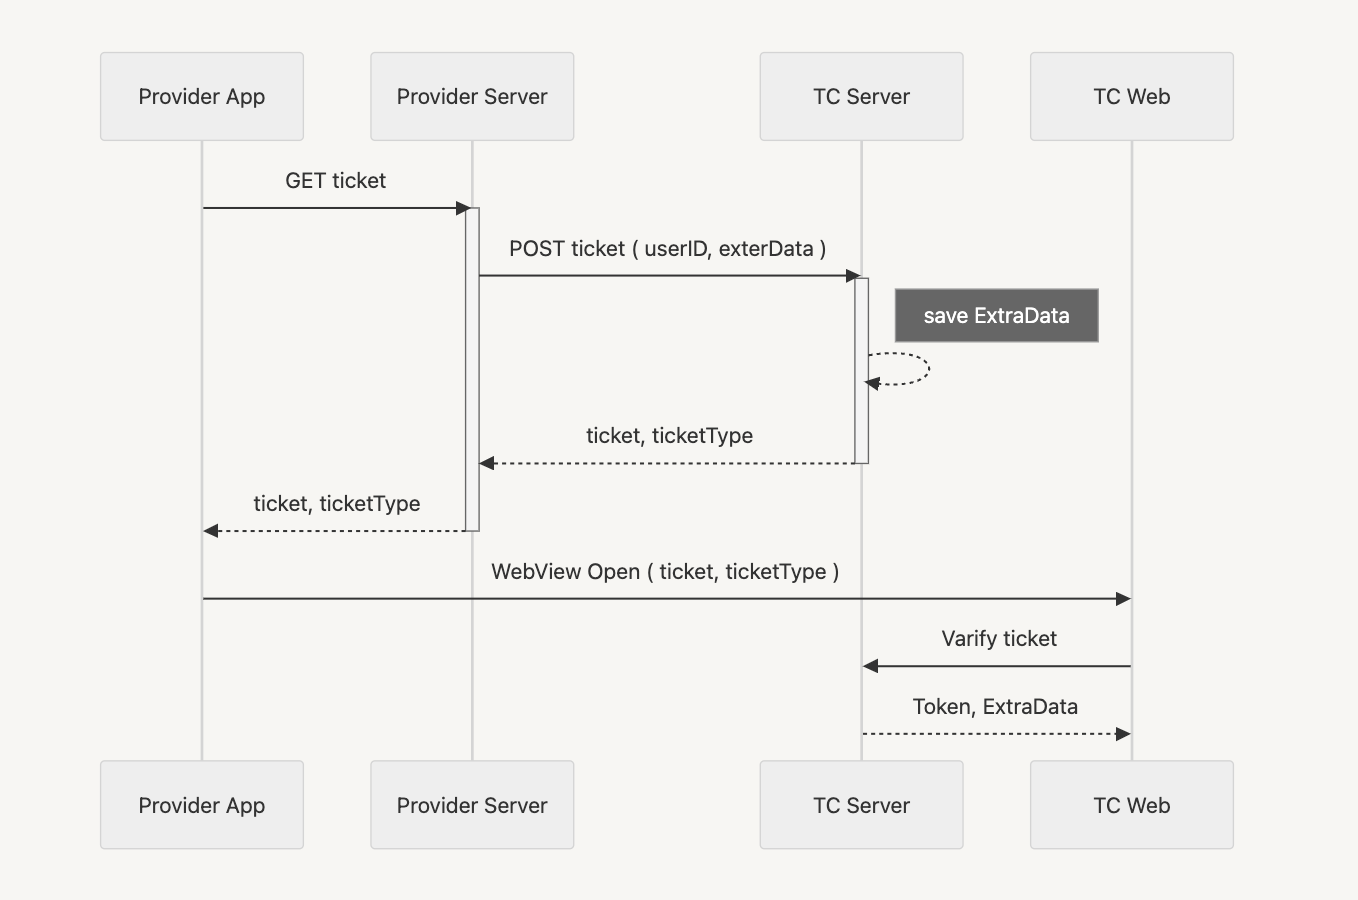
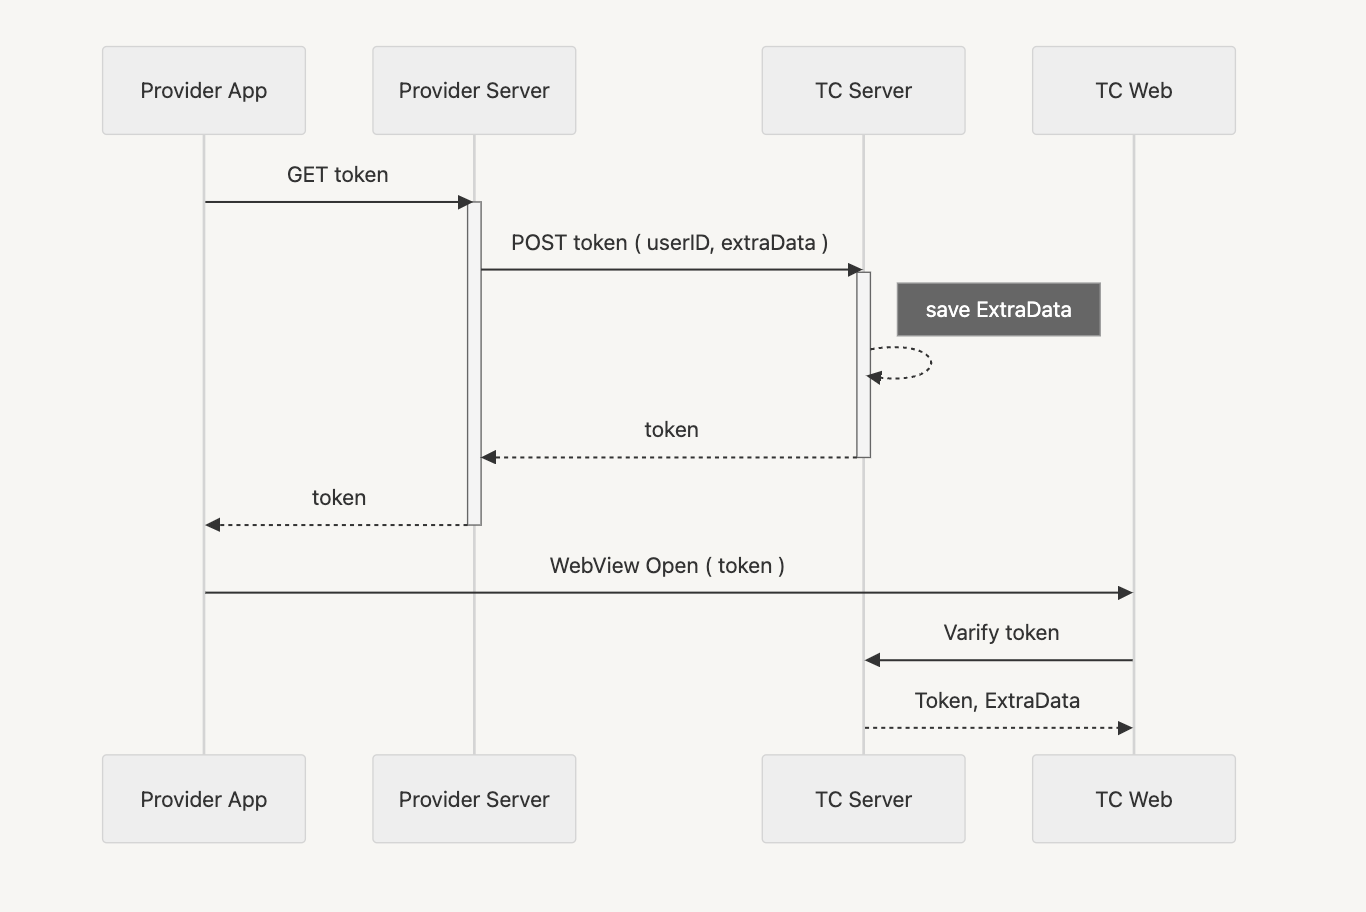
GITBOOK-248: No subject

diff --git a/token.md b/token.md
@@ -1,18 +1,18 @@
 ---
-description: 로그인 시 추가 정보를 전달하는 방식에 사용되는 OTT ( One-Time Ticket ) 생성 가이드입니다.
+description: 로그인 시 추가 정보를 전달하는 방식에 사용되는 OTT ( One-Time Token ) 생성 가이드입니다.
 hidden: true
 icon: mobile-notch
 ---
 
-# Ticket 생성
+# Token 생성
 
 ## Flow
 
-<figure><img src=".gitbook/assets/image (1).png" alt=""><figcaption></figcaption></figure>
+<figure><img src=".gitbook/assets/image (2).png" alt=""><figcaption></figcaption></figure>
 
-&#x20;**✓ WebView 를 열때 sign값이 아닌 ticket, ticketType 값을 쿼리스트링으로 넘겨줍니다.**
+&#x20;**✓ WebView 를 열때 sign값이 아닌 token 값을 쿼리스트링으로 넘겨줍니다.**
 
-&#x20;**✓ ticket의 유효 시간은 20초입니다.**&#x20;
+&#x20;**✓ token의 유효 시간은 20초입니다.**&#x20;
 
 &#x20;**✓ WebView를 열기 전 호출하고 바로 사용합니다.**
 
@@ -28,10 +28,10 @@ icon: mobile-notch
 
 ```
 테스트
-POST https://api-test.treasurecomics.com/external/account/ticket
+POST https://api-test.treasurecomics.com/external/account/ott
 
 라이브
-POST https://api.treasurecomics.com/external/account/ticket
+POST https://api.treasurecomics.com/external/account/ott
 ```
 
 ### Security
@@ -56,7 +56,7 @@ POST https://api.treasurecomics.com/external/account/ticket
 
 ```
 // usage example
-POST https://api-{env}.treasurecomics.com/external/account/ticket
+POST https://api-{env}.treasurecomics.com/external/account/ott
 Accept-Version: 1.0.0
 Content-Type: application/json
 Authorization: Basic Token
@@ -75,7 +75,7 @@ Authorization: Basic Token
 
 ### **Response**
 
-<table><thead><tr><th width="270">Fields</th><th width="106">Type</th><th>Description</th></tr></thead><tbody><tr><td><code>ticket</code></td><td>string</td><td>32 글자의 티켓</td></tr><tr><td><code>ticketType</code></td><td>string</td><td>보물섬 로그인을 위해 판단되는 유저의 값<br>ex ) agree, login</td></tr></tbody></table>
+<table><thead><tr><th width="270">Fields</th><th width="106">Type</th><th>Description</th></tr></thead><tbody><tr><td><code>token</code></td><td>string</td><td>32 글자의 One-Time Token</td></tr></tbody></table>
 
 **Response Code**
 
@@ -84,8 +84,7 @@ Authorization: Basic Token
 {% code lineNumbers="true" %}
 ```json
   {
-    "ticket": "1432b8ea0b9311f09c8d02d57e3413e1",
-    "ticketType": "login"
+    "token": "1432b8ea0b9311f09c8d02d57e3413e1"
   }
 ```
 {% endcode %}

diff --git a/web/recommendation.md b/web/recommendation.md
@@ -201,13 +201,13 @@ https://api-{env}.treasurecomics.com/external/recommendation?sign=1724328195.3da
 
 ### 예시1
 
-<div align="left"><figure><img src="../.gitbook/assets/image (3).png" alt=""><figcaption><p>예시1</p></figcaption></figure></div>
+<div align="left"><figure><img src="../.gitbook/assets/image (3) (1).png" alt=""><figcaption><p>예시1</p></figcaption></figure></div>
 
 ***
 
 ### 예시2
 
-<div align="left"><figure><img src="../.gitbook/assets/image (2) (1).png" alt=""><figcaption></figcaption></figure></div>
+<div align="left"><figure><img src="../.gitbook/assets/image (2) (1) (1).png" alt=""><figcaption></figcaption></figure></div>
 
 
 

diff --git a/android-sdk/membership-channeling.md b/android-sdk/membership-channeling.md
@@ -15,7 +15,7 @@ icon: user-group
 **✓** **파트너사의 앱의 운영 방식에 따라 로그인 여부 확인이 가능한 기능 구현이 필요 할 수 있습니다.**
 {% endhint %}
 
-<figure><img src="../.gitbook/assets/image (3) (1).png" alt=""><figcaption><p>채널링 서비스 플로우</p></figcaption></figure>
+<figure><img src="../.gitbook/assets/image (3) (1) (1).png" alt=""><figcaption><p>채널링 서비스 플로우</p></figcaption></figure>
 
 ***
 

diff --git a/ios-sdk/membership-channeling.md b/ios-sdk/membership-channeling.md
@@ -15,7 +15,7 @@ icon: user-group
 **✓** **파트너사의 앱의 운영 방식에 따라 로그인 여부 확인이 가능한 기능 구현이 필요 할 수 있습니다.**
 {% endhint %}
 
-<figure><img src="../.gitbook/assets/image (3) (1).png" alt=""><figcaption><p>채널링 서비스 플로우</p></figcaption></figure>
+<figure><img src="../.gitbook/assets/image (3) (1) (1).png" alt=""><figcaption><p>채널링 서비스 플로우</p></figcaption></figure>
 
 ***
 

diff --git a/unity/membership-channeling.md b/unity/membership-channeling.md
@@ -11,7 +11,7 @@ icon: user-group
 **✓** **파트너사의 앱의 운영 방식에 따라 로그인 여부 확인이 가능한 기능 구현이 필요 할 수 있습니다.**
 {% endhint %}
 
-<figure><img src="../.gitbook/assets/image (3) (1).png" alt=""><figcaption><p>채널링 서비스 플로우</p></figcaption></figure>
+<figure><img src="../.gitbook/assets/image (3) (1) (1).png" alt=""><figcaption><p>채널링 서비스 플로우</p></figcaption></figure>
 
 ***
 

diff --git a/flutter/membership-channeling.md b/flutter/membership-channeling.md
@@ -11,7 +11,7 @@ icon: user-group
 **✓ 파트너사의 앱의 운영 방식에 따라 로그인 여부 확인이 가능한 기능 구현이 필요 할 수 있습니다.**
 {% endhint %}
 
-<figure><img src="../.gitbook/assets/image (3) (1).png" alt=""><figcaption><p>채널링 서비스 플로우</p></figcaption></figure>
+<figure><img src="../.gitbook/assets/image (3) (1) (1).png" alt=""><figcaption><p>채널링 서비스 플로우</p></figcaption></figure>
 
 ***
 

diff --git a/react-native/membership-channeling.md b/react-native/membership-channeling.md
@@ -11,7 +11,7 @@ icon: user-group
 **✓ 파트너사의 앱의 운영 방식에 따라 로그인 여부 확인이 가능한 기능 구현이 필요 할 수 있습니다.**
 {% endhint %}
 
-<figure><img src="../.gitbook/assets/image (3) (1).png" alt=""><figcaption><p>채널링 서비스 플로우</p></figcaption></figure>
+<figure><img src="../.gitbook/assets/image (3) (1) (1).png" alt=""><figcaption><p>채널링 서비스 플로우</p></figcaption></figure>
 
 ***
 

diff --git a/web/recently.md b/web/recently.md
@@ -131,7 +131,7 @@ https://api-{env}.treasurecomics.com/external/recentView?sign=1724328195.3da0865
 
 ## 최근 본 작품 조회 구현 예시 화면
 
-<div align="left" data-full-width="false"><figure><img src="../.gitbook/assets/image (1) (1).png" alt=""><figcaption></figcaption></figure></div>
+<div align="left" data-full-width="false"><figure><img src="../.gitbook/assets/image (1) (1) (1).png" alt=""><figcaption></figcaption></figure></div>
 
 
 

diff --git a/SUMMARY.md b/SUMMARY.md
@@ -25,7 +25,7 @@
 * [Postback API 가이드](postback-api.md)
 * [\[ API \] 회원 탈퇴](withdraw.md)
 * [\[ API \] 회원 코인 조회](cashbalance.md)
-* [Ticket 생성](ticket.md)
+* [Token 생성](token.md)
 
 ## WEB VIEW
 
